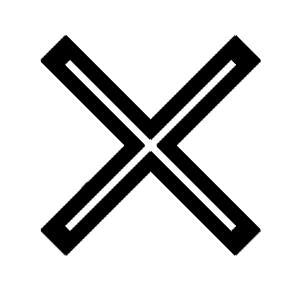
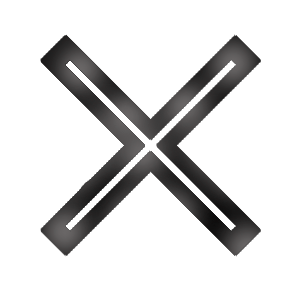
changing menu

Changed region(s): [[0.12, 0.12, 0.87, 0.87], [0.72, 0.69, 0.87, 0.87]]

diff --git a/blog/static/blog/style.css b/blog/static/blog/style.css
@@ -10,14 +10,14 @@ body {
 
   @keyframes menu_item_down{
     0% {bottom:10vh;}
-    100% {bottom: 10px;}
+    100% {bottom: 2vh;}
   }
   @keyframes opacity_item_down{
     0% {bottom:10vh;}
     50% {opacity: 1;
          bottom: 10px;}
     100% {opacity: 0;
-      bottom: 10px;}
+      bottom: 2vh;}
   }
   @keyframes cross_animation{
     0% {opacity: 0;}
@@ -47,6 +47,7 @@ body {
     left: calc(50% - 35px);
     align-items: center;
     z-index: 7;
+    border: 2px solid rgb(134, 128, 128);
     
   }
 
@@ -67,11 +68,11 @@ body {
   .menu-cross {
     width: 70px;
     height: 70px;
-    bottom: 15vh;
+    bottom: 12vh;
     left: calc(50% - 35px);
     transform-origin: center;
     opacity: 0;
-    
+    z-index: 7;
   }
   .menu-item {
     display: flex;
@@ -80,22 +81,24 @@ body {
     width: 70px;
     height: 70px;
     position: fixed;
-    background-color: rgb(77, 2, 2);
+    background-color: rgb(73, 67, 67);
     transform:rotate(45deg);
     transition: 0s;
     transform-origin: center;
     z-index: 8;
     opacity: 0;
+    border: 2px solid rgb(134, 128, 128);
 }
 
   .item-1, .item-2, .item-3, .item-4  {
-    bottom: 15vh;
+    bottom: 12vh;
     left: calc(50% - 35px);
   }
 
   .menu-main-item{
     z-index: 9;
     background-color: rgb(0, 0, 0);
+    border: 2px solid rgb(134, 128, 128);
   }
 
   .menu-item a{
@@ -105,6 +108,7 @@ body {
     transition: 0s;
     font-weight: bold;
   }
+
   .menubtn:hover{
     animation:menu_open 1s forwards;
   }
@@ -116,21 +120,23 @@ body {
   }
   .menubtn:hover .menu-main-item{
     animation:opacity_item_down 2s ease-out forwards;
+    transform:rotate(90deg);
+    transition-delay: 1s;
   }
   .menubtn:hover .item-1{
-    transform: translate(75px, -3px) rotate(45deg);
+    transform: translate(80px, -0px) rotate(45deg);
     animation:cross_animation 2s ease-out forwards;
   }
   .menubtn:hover .item-2{
-    transform: translate(-75px, -3px) rotate(45deg);
+    transform: translate(-82px, -0px) rotate(45deg);
     animation:cross_animation 2s ease-out forwards;
   }
   .menubtn:hover .item-3{
-    transform: translateY(-78px) rotate(45deg);
+    transform: translate(-2px, -80px) rotate(45deg);
     animation:cross_animation 2s ease-out forwards;
   }
   .menubtn:hover .item-4{
-    transform: translateY(72px) rotate(45deg);
+    transform: translate(-2px, 80px) rotate(45deg);
     animation:cross_animation 2s ease-out forwards;
   }
   .menubtn:hover .item-6{
@@ -138,11 +144,11 @@ body {
     transition-delay: 1s;
   }
   .menubtn:hover .item-7{
-    transform: translateX(90px);
+    transform: translateX(110px);
     transition-delay: 1s;
   }
   .menubtn:hover .item-8{
-    transform: translateX(-90px);
+    transform: translateX(-110px);
     transition-delay: 1s;
   }
   .menubtn:hover .item-9{
